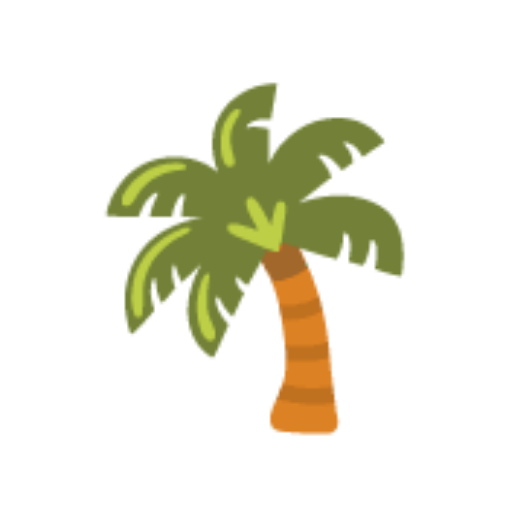
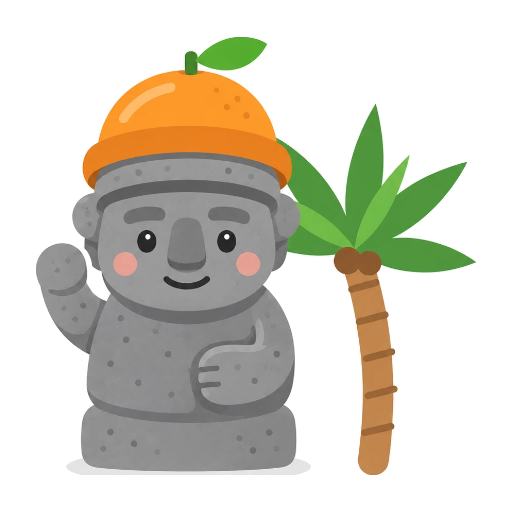
cat-house: 앱 아이콘을 귤모자 돌하르방 + 야자수 이미지로 변경, 마스커블 아이콘 추가 (#46)
* cat-house: 안드로이드 둥근 아이콘에 맞는 마스커블 아이콘 추가

Claude-Session: https://claude.ai/code/session_017Yu3a2CvjA67Uw9nVVeR1S

* cat-house: 앱 아이콘을 제주 돌하르방 + 야자수 이미지로 변경

Claude-Session: https://claude.ai/code/session_017Yu3a2CvjA67Uw9nVVeR1S

* cat-house: 앱 아이콘을 귤모자 돌하르방 + 야자수 그림으로 변경

Claude-Session: https://claude.ai/code/session_017Yu3a2CvjA67Uw9nVVeR1S

* cat-house: 앱 아이콘을 제공받은 귤모자 돌하르방 + 야자수 이미지로 교체

Claude-Session: https://claude.ai/code/session_017Yu3a2CvjA67Uw9nVVeR1S

---------

diff --git a/cat-house/index.html b/cat-house/index.html
@@ -7,8 +7,8 @@
   <meta name="color-scheme" content="light">
   <meta name="theme-color" content="#f6f5f3">
   <link rel="manifest" href="manifest.webmanifest">
-  <link rel="icon" type="image/png" href="icon-192.png?v=palm">
-  <link rel="apple-touch-icon" href="apple-touch-icon.png?v=palm">
+  <link rel="icon" type="image/png" href="icon-192.png?v=jeju3">
+  <link rel="apple-touch-icon" href="apple-touch-icon.png?v=jeju3">
   <meta name="apple-mobile-web-app-capable" content="yes">
   <meta name="mobile-web-app-capable" content="yes">
   <meta name="apple-mobile-web-app-title" content="가족 소식통">
@@ -16,11 +16,11 @@
   <link rel="preconnect" href="https://fonts.googleapis.com">
   <link rel="preconnect" href="https://fonts.gstatic.com" crossorigin>
   <link href="https://fonts.googleapis.com/css2?family=Gowun+Dodum&family=Jua&display=swap" rel="stylesheet">
-  <link rel="stylesheet" href="style.css?v=20261023a">
+  <link rel="stylesheet" href="style.css?v=20261026a">
 </head>
 <body>
   <div id="splash" class="splash" aria-hidden="true">
-    <img src="icon-192.png?v=palm" alt="" width="120" height="120">
+    <img src="icon-192.png?v=jeju3" alt="" width="120" height="120">
     <div class="splash-text">우리 가족 소식통</div>
   </div>
 
@@ -570,6 +570,6 @@
     window.dispatchEvent(new Event("cloud-ready"));
   </script>
 
-  <script src="script.js?v=20261023a"></script>
+  <script src="script.js?v=20261026a"></script>
 </body>
 </html>
